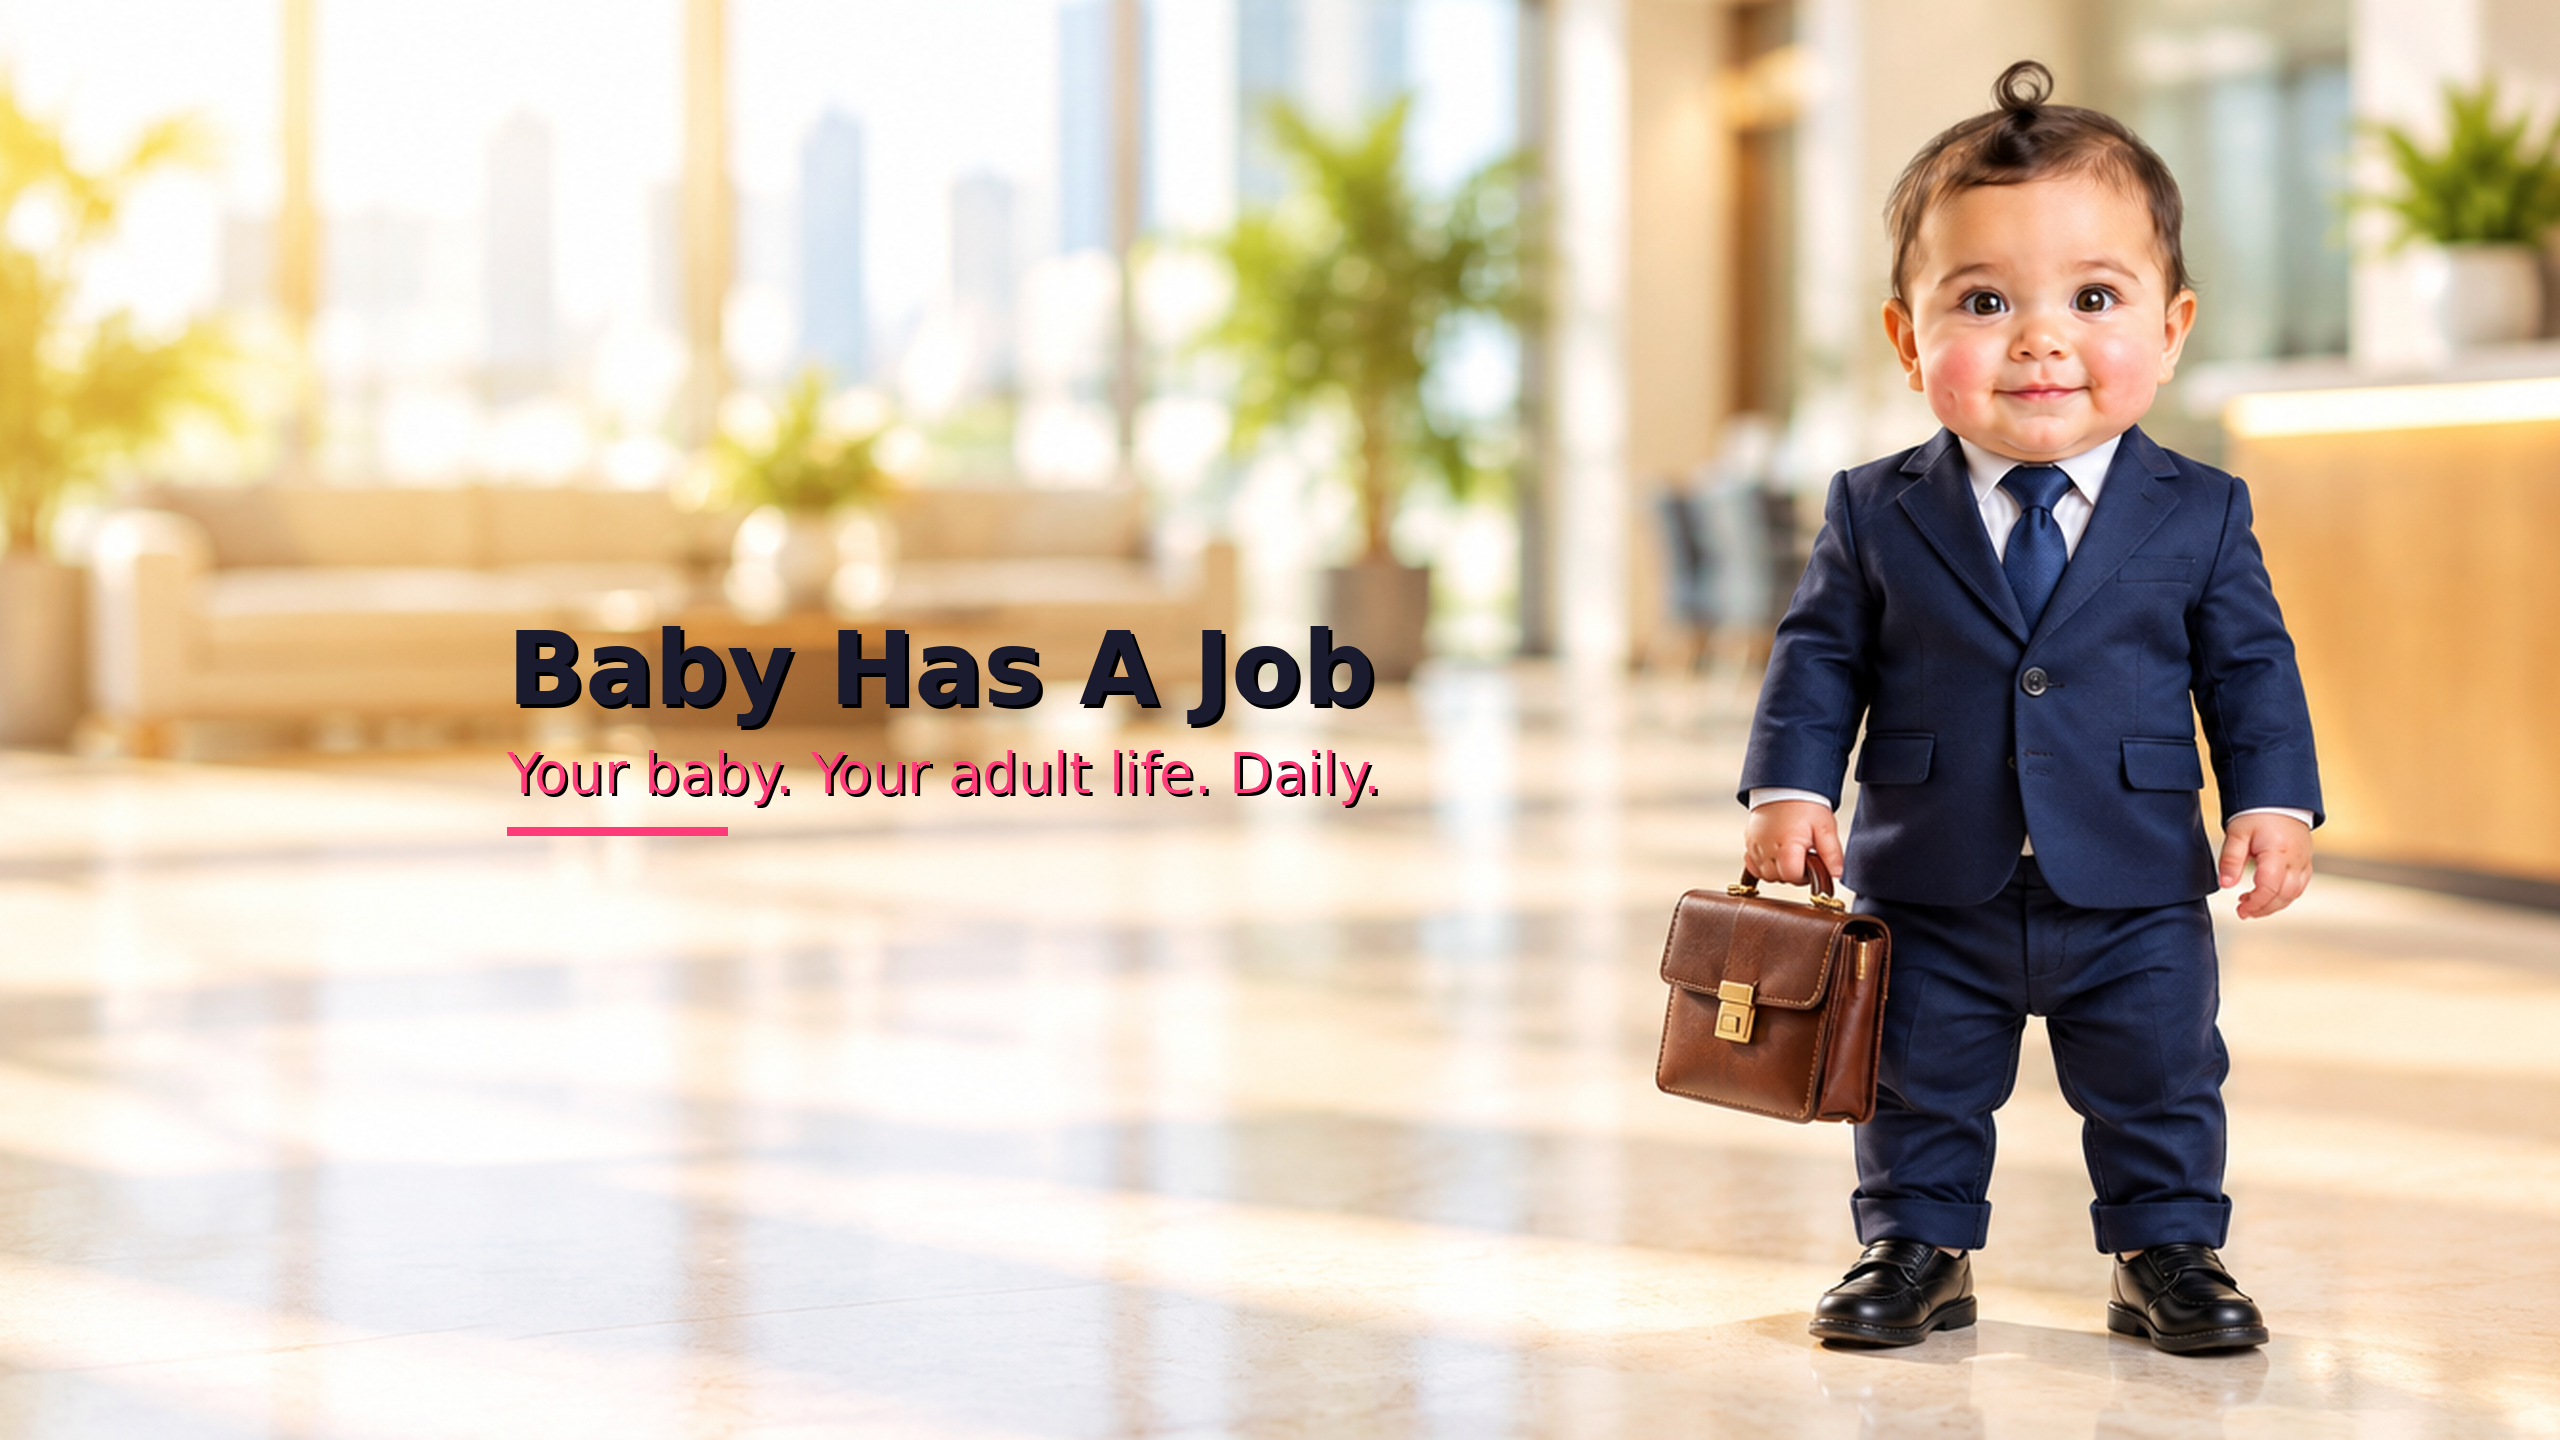
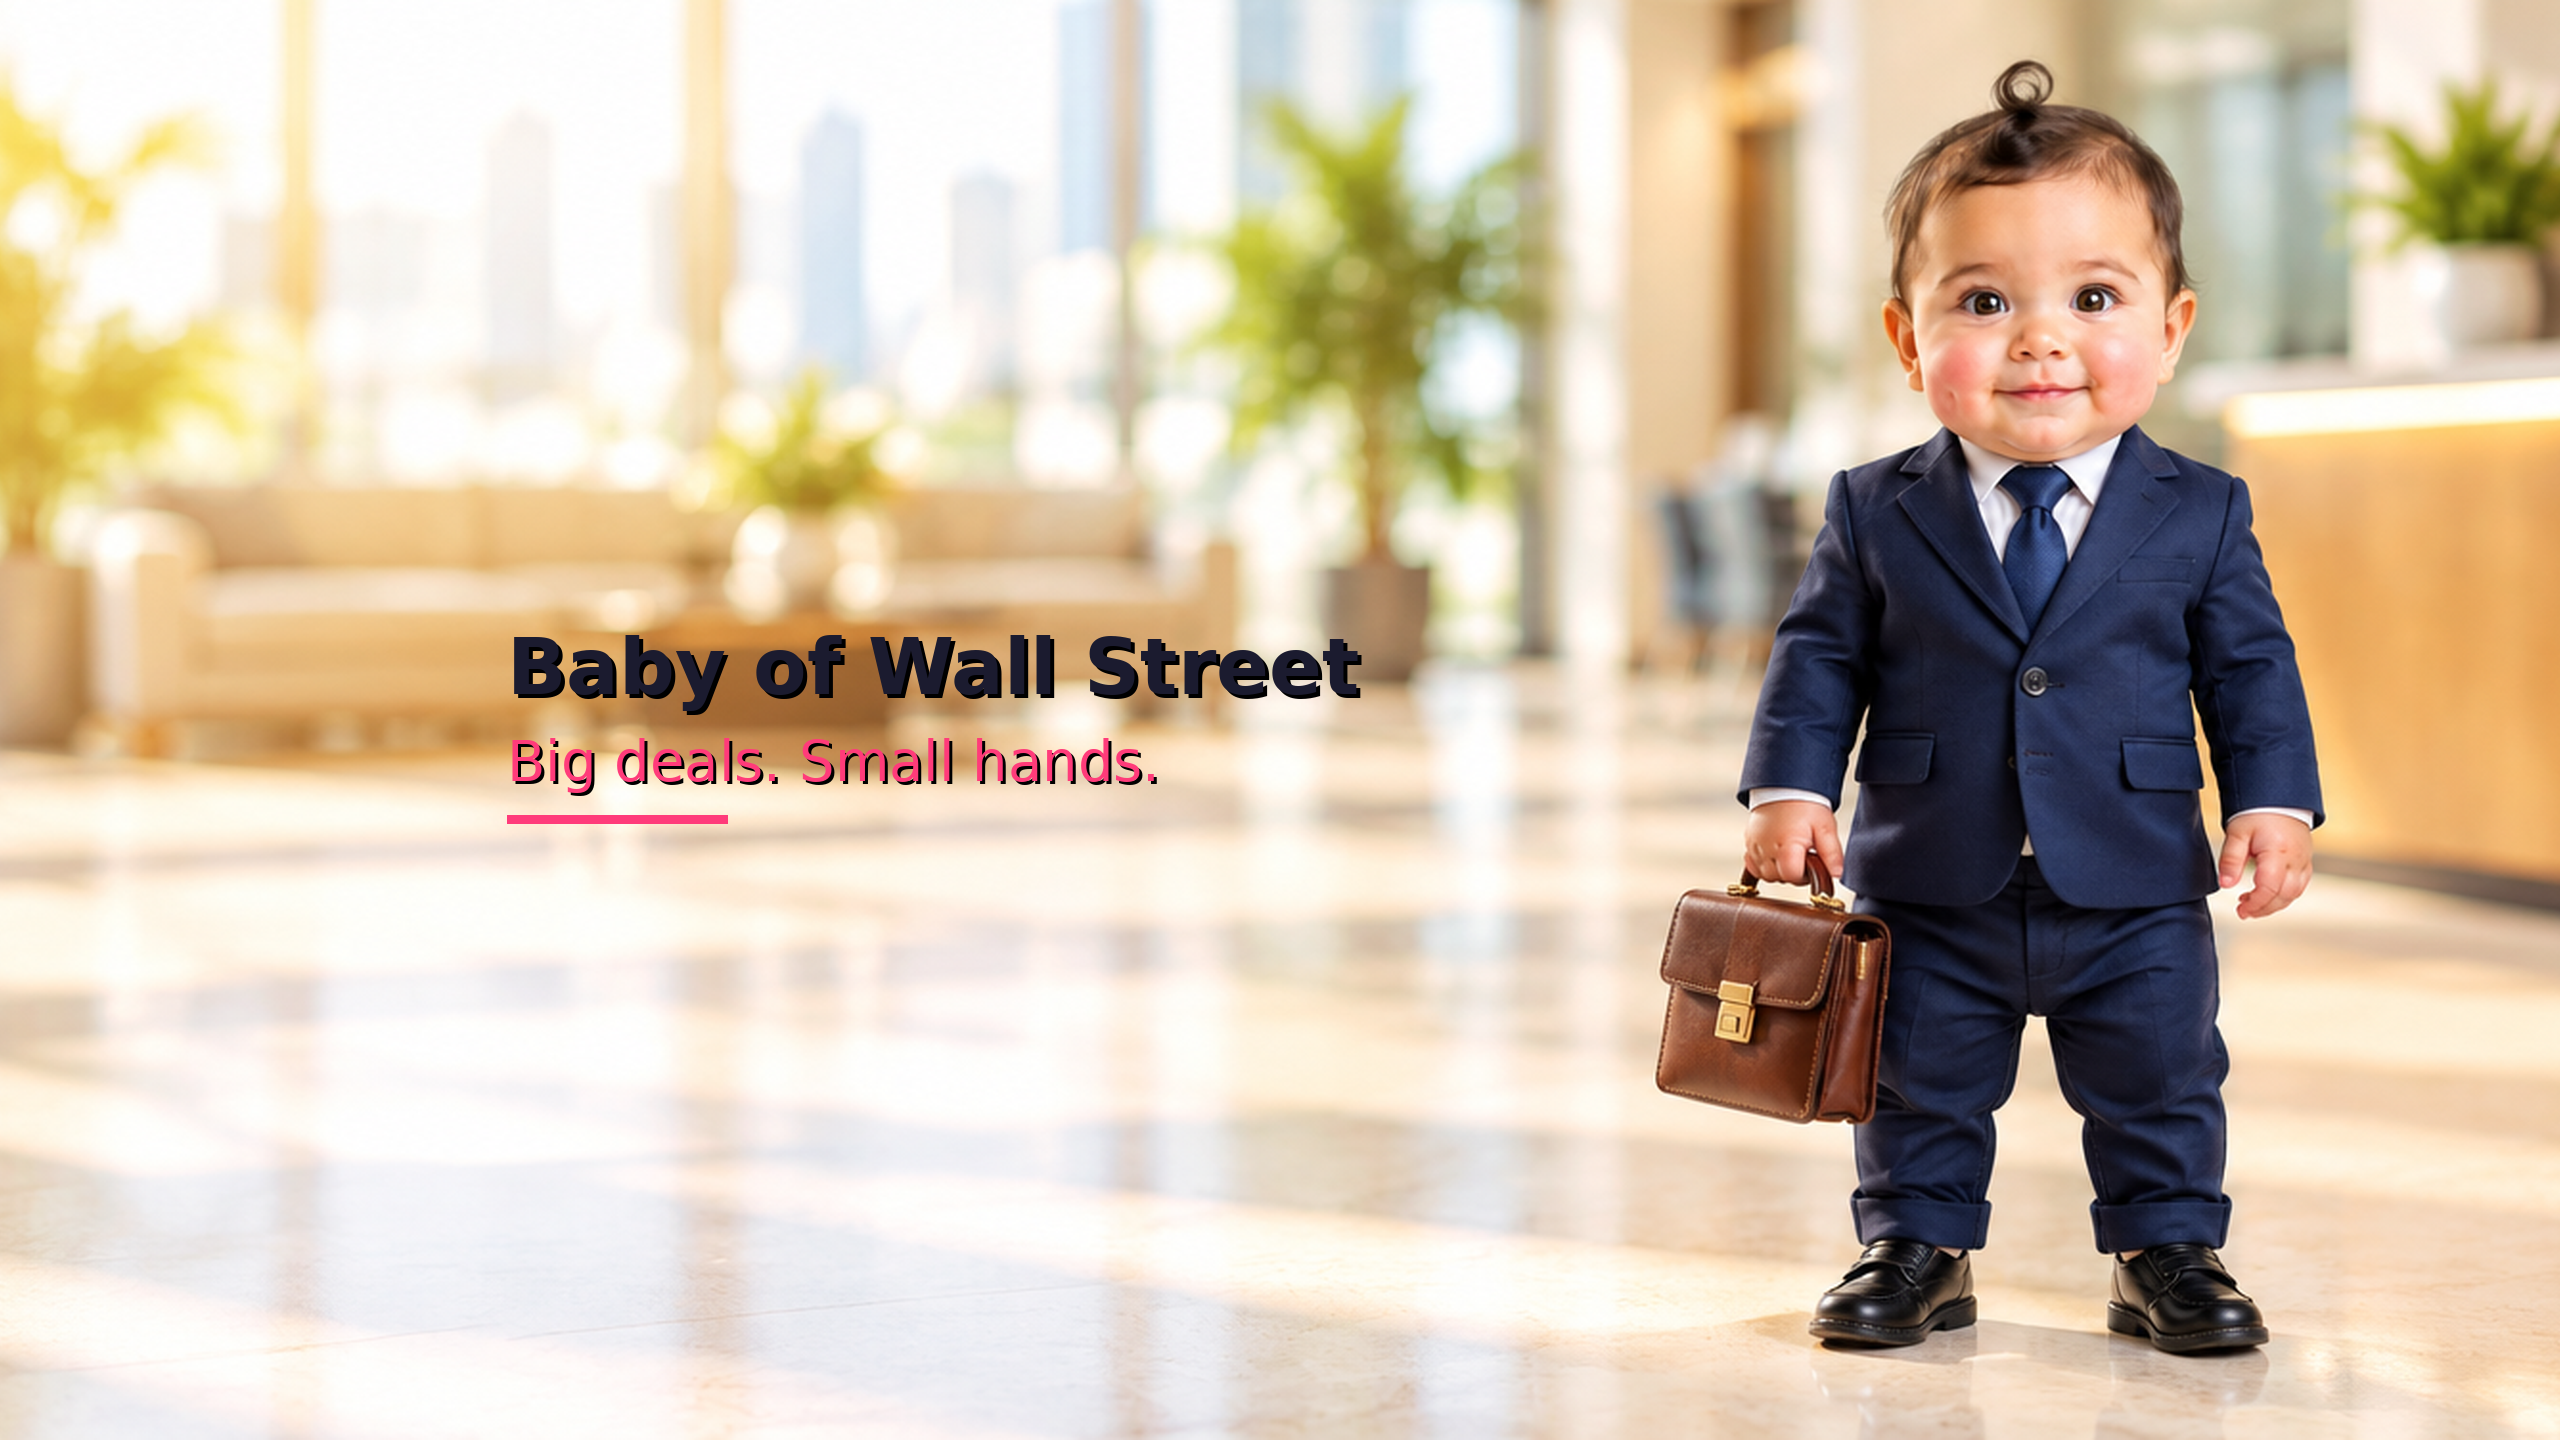
Kanal 2 heisst jetzt 'Baby of Wall Street'; YouTube-Login per Geraete-Code
- config.baby.yaml: Name, Handle, Finanz-Nische, 20 neue Themen, Serien 'Baby of Wall Street' / 'Baby After Hours'
- Banner neu betextet, PLAN/README angepasst
- make_short.py auth --device: OAuth Limited-Input-Device-Flow (Login vom Handy, kein lokaler Browser noetig)

Claude-Session: https://claude.ai/code/session_01BzkdKVhTWk9myVGhivi9Nb

Changed region(s): [[0.1875, 0.4375, 0.5625, 0.5938]]

diff --git a/shorts-factory/pipeline/youtube.py b/shorts-factory/pipeline/youtube.py
@@ -26,6 +26,67 @@ def _materialize_from_env(client_secret: Path, token_file: Path) -> None:
             target.write_text(val, encoding="utf-8")
 
 
+def device_login(cfg: dict[str, Any] | None = None):
+    """OAuth 'Limited Input Device'-Flow: Code wird angezeigt, Login passiert auf Handy/PC.
+    Funktioniert ohne Browser auf dieser Maschine (z.B. Cloud-Session, Server).
+    Der OAuth-Client in der Google Cloud Console muss vom Typ 'Fernseher und Geraete mit begrenzter Eingabe' sein."""
+    import time
+    import urllib.parse
+    import urllib.request
+
+    from google.oauth2.credentials import Credentials
+
+    CLIENT_SECRET, TOKEN_FILE = _files(cfg)
+    _materialize_from_env(CLIENT_SECRET, TOKEN_FILE)
+    if not CLIENT_SECRET.exists():
+        raise RuntimeError(f"{CLIENT_SECRET} fehlt (OAuth-Client-JSON aus der Google Cloud Console).")
+    data = json.loads(CLIENT_SECRET.read_text(encoding="utf-8"))
+    conf = data.get("installed") or data.get("web") or next(iter(data.values()))
+    client_id, client_secret = conf["client_id"], conf["client_secret"]
+
+    def post(url: str, fields: dict[str, str]) -> dict[str, Any]:
+        body = urllib.parse.urlencode(fields).encode()
+        req = urllib.request.Request(url, data=body, headers={"Content-Type": "application/x-www-form-urlencoded"})
+        try:
+            with urllib.request.urlopen(req, timeout=30) as resp:
+                return json.loads(resp.read().decode())
+        except urllib.error.HTTPError as exc:  # type: ignore[attr-defined]
+            return json.loads(exc.read().decode())
+
+    dev = post("https://oauth2.googleapis.com/device/code", {"client_id": client_id, "scope": " ".join(SCOPES)})
+    if "user_code" not in dev:
+        raise RuntimeError(f"Device-Flow abgelehnt: {dev}")
+    print("\n=== YouTube-Anmeldung ===")
+    print(f"1. Auf dem Handy oder PC oeffnen: {dev.get('verification_url', 'https://www.google.com/device')}")
+    print(f"2. Diesen Code eingeben:          {dev['user_code']}")
+    print("3. Mit dem Google-Konto anmelden und den YouTube-KANAL auswaehlen, der hochladen soll.\n")
+    interval = int(dev.get("interval", 5))
+    deadline = time.time() + int(dev.get("expires_in", 1800))
+    while time.time() < deadline:
+        time.sleep(interval)
+        tok = post("https://oauth2.googleapis.com/token", {
+            "client_id": client_id, "client_secret": client_secret,
+            "device_code": dev["device_code"], "grant_type": "urn:ietf:params:oauth:grant-type:device_code",
+        })
+        err = tok.get("error")
+        if err == "authorization_pending":
+            continue
+        if err == "slow_down":
+            interval += 2
+            continue
+        if err:
+            raise RuntimeError(f"Anmeldung fehlgeschlagen: {tok}")
+        creds = Credentials(
+            token=tok["access_token"], refresh_token=tok.get("refresh_token"),
+            token_uri="https://oauth2.googleapis.com/token",
+            client_id=client_id, client_secret=client_secret, scopes=SCOPES,
+        )
+        TOKEN_FILE.write_text(creds.to_json(), encoding="utf-8")
+        print(f"[youtube] Token gespeichert: {TOKEN_FILE}")
+        return creds
+    raise RuntimeError("Code abgelaufen – bitte erneut starten.")
+
+
 def get_credentials(interactive: bool = True, cfg: dict[str, Any] | None = None):
     from google.auth.transport.requests import Request
     from google.oauth2.credentials import Credentials

diff --git a/shorts-factory/make_short.py b/shorts-factory/make_short.py
@@ -10,6 +10,7 @@ Shorts Factory – CLI
   python make_short.py render scripts/x.json            # Video aus Skript
   python make_short.py upload output/x.mp4 --script scripts/x.json
   python make_short.py auth                # einmalige YouTube-Anmeldung (oeffnet Browser)
+  python make_short.py auth --device       # Anmeldung per Code auf dem Handy (Server/Cloud)
   python make_short.py voices              # verfuegbare Stimmen in der Kanalsprache
   python make_short.py --config config.de.yaml run   # lokalisierter Zweitkanal
 """
@@ -136,7 +137,8 @@ def main(argv=None) -> int:
     up.add_argument("video")
     up.add_argument("--script", required=True)
 
-    sub.add_parser("auth", help="YouTube OAuth einmalig einrichten")
+    au = sub.add_parser("auth", help="YouTube OAuth einmalig einrichten")
+    au.add_argument("--device", action="store_true", help="Login per Code auf dem Handy (kein Browser auf dieser Maschine noetig)")
     sub.add_parser("voices", help="edge-tts Stimmen auflisten")
 
     args = p.parse_args(argv)
@@ -149,8 +151,11 @@ def main(argv=None) -> int:
         return 0
 
     if args.cmd == "auth":
-        from pipeline.youtube import get_credentials
-        get_credentials(interactive=True, cfg=cfg)
+        from pipeline.youtube import device_login, get_credentials
+        if args.device:
+            device_login(cfg)
+        else:
+            get_credentials(interactive=True, cfg=cfg)
         print(f"[youtube] Token gespeichert in secrets/{cfg['youtube'].get('token_file', 'token.json')}")
         return 0
 

diff --git a/shorts-factory/PLAN.md b/shorts-factory/PLAN.md
@@ -3,7 +3,7 @@
 | Kanal | Nische | Format | Config | Workflow |
 |---|---|---|---|---|
 | **The Mind Twist** (@TheMindTwist) | Psychologie / menschliches Verhalten, englisch | Story + Countdown, 3x/Tag | `config.yaml` | `daily-short.yml` |
-| **Baby Has A Job** (@BabyHasAJob) | KI-Baby-Comedy mit wiederkehrender Figur „Bo“, englisch | Szenen (5 Bilder + Gag-Captions), 2x/Tag | `config.baby.yaml` | `daily-baby-short.yml` |
+| **Baby of Wall Street** (@BabyOfWallStreet) | KI-Baby-Comedy mit wiederkehrender Figur „Bo“, englisch | Szenen (5 Bilder + Gag-Captions), 2x/Tag | `config.baby.yaml` | `daily-baby-short.yml` |
 
 Beide laufen getrennt (eigener YouTube-Kanal, eigenes Token, eigener Verlauf), wie von ChatGPT empfohlen:
 zwei Viral-Tests statt alles auf einen Kanal. Nach 3–4 Wochen entscheidet die Swipe-Rate, welcher Kanal auf 3/Tag geht.
@@ -190,12 +190,12 @@ ueber den OpenAI-API-Key in der Pipeline (Skripte). Strategie-Ideen aus ChatGPT 
 
 ---
 
-# Kanal 2: „Baby Has A Job“ – KI-Baby-Comedy mit Figur
+# Kanal 2: „Baby of Wall Street“ – KI-Baby-Comedy mit Figur
 
 ## Name
 
-Geprueft am 28.09.2026, frei: **@BabyHasAJob** (Empfehlung, sagt das Format), @BabyGoesToWork, @BabyCEO,
-@BabyBusiness, @BabyNineToFive, @AdultingBaby. Vergeben: TinyAdult, OfficeBaby, BabyAtWork, LilBossman u.a.
+Gewaehlt und angelegt am 28.09.2026: **@BabyOfWallStreet** (Anspielung auf „Wolf of Wall Street“).
+Ebenfalls frei gewesen: @BabyMogul, @BabyEmpire, @BabyGodfather, @BabyHedgeFund, @BabyGrindset.
 **Nicht** „Boss Baby“ verwenden (DreamWorks-Marke).
 
 ## Figur „Bo“
@@ -215,8 +215,8 @@ Hook = Situation („POV: your baby has a 9 to 5 job“) -> 5 Szenen, jede ein B
 
 | Slot  | Berlin | Serie          | Fokus                                                  |
 |-------|--------|----------------|--------------------------------------------------------|
-| morgen| 08:30  | Baby Has A Job | Beruf: Buero, Kueche, Baustelle, Taxi, Flugzeug …       |
-| abend | 20:30  | Baby Life      | Erwachsenen-Alltag: Gym, Steuern, Umzug, Dating-App …   |
+| morgen| 08:30  | Baby of Wall Street | Finanz-Boss: Deals, Boardroom, Boerse, CFO feuern …  |
+| abend | 20:30  | Baby After Hours    | Erwachsenen-Alltag: Gym, Steuern, Penthouse, Jet …   |
 
 20 Startthemen stehen in `config.baby.yaml`. Kosten: 6 Bilder pro Short ≈ 1,5 Credits, 2 Shorts/Tag ≈ 3 Credits.
 

diff --git a/shorts-factory/README.md b/shorts-factory/README.md
@@ -1,6 +1,6 @@
 # Shorts Factory – automatische YouTube-Shorts-Kanaele
 
-Kanal 1 „The Mind Twist“ (Psychologie, `config.yaml`) und Kanal 2 „Baby Has A Job“ (KI-Baby-Comedy mit wiederkehrender Figur, `config.baby.yaml`).
+Kanal 1 „The Mind Twist“ (Psychologie, `config.yaml`) und Kanal 2 „Baby of Wall Street“ (KI-Baby-Comedy mit wiederkehrender Figur, `config.baby.yaml`).
 
 ChatGPT schreibt · edge-tts spricht · Higgsfield malt · ffmpeg schneidet · GitHub Actions laedt 3x taeglich hoch.
 
